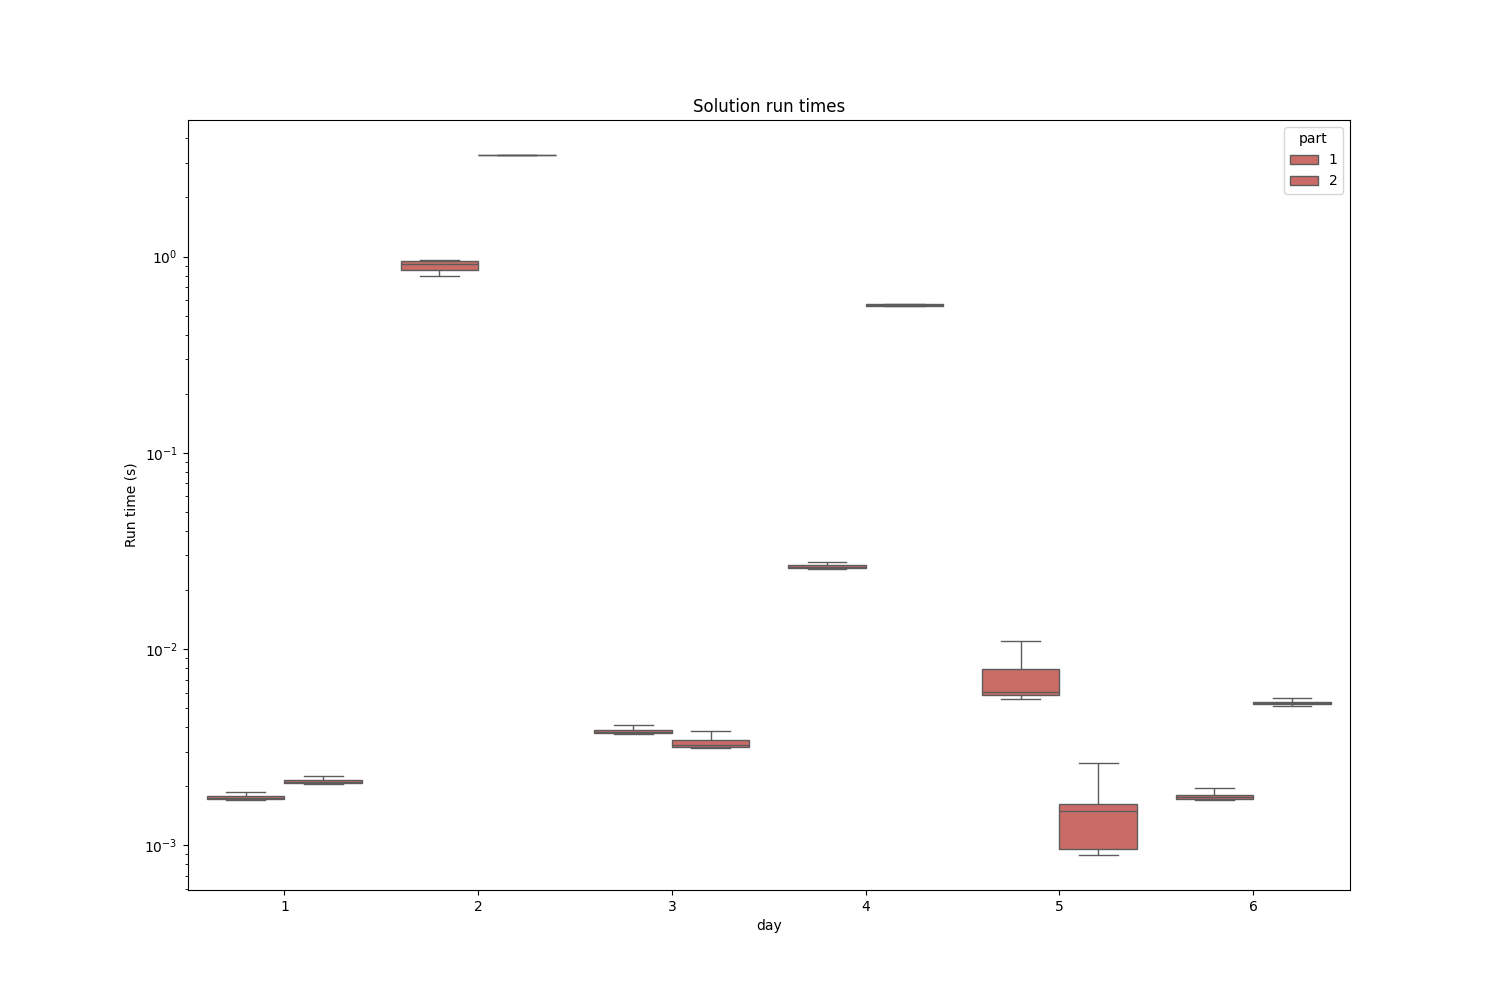
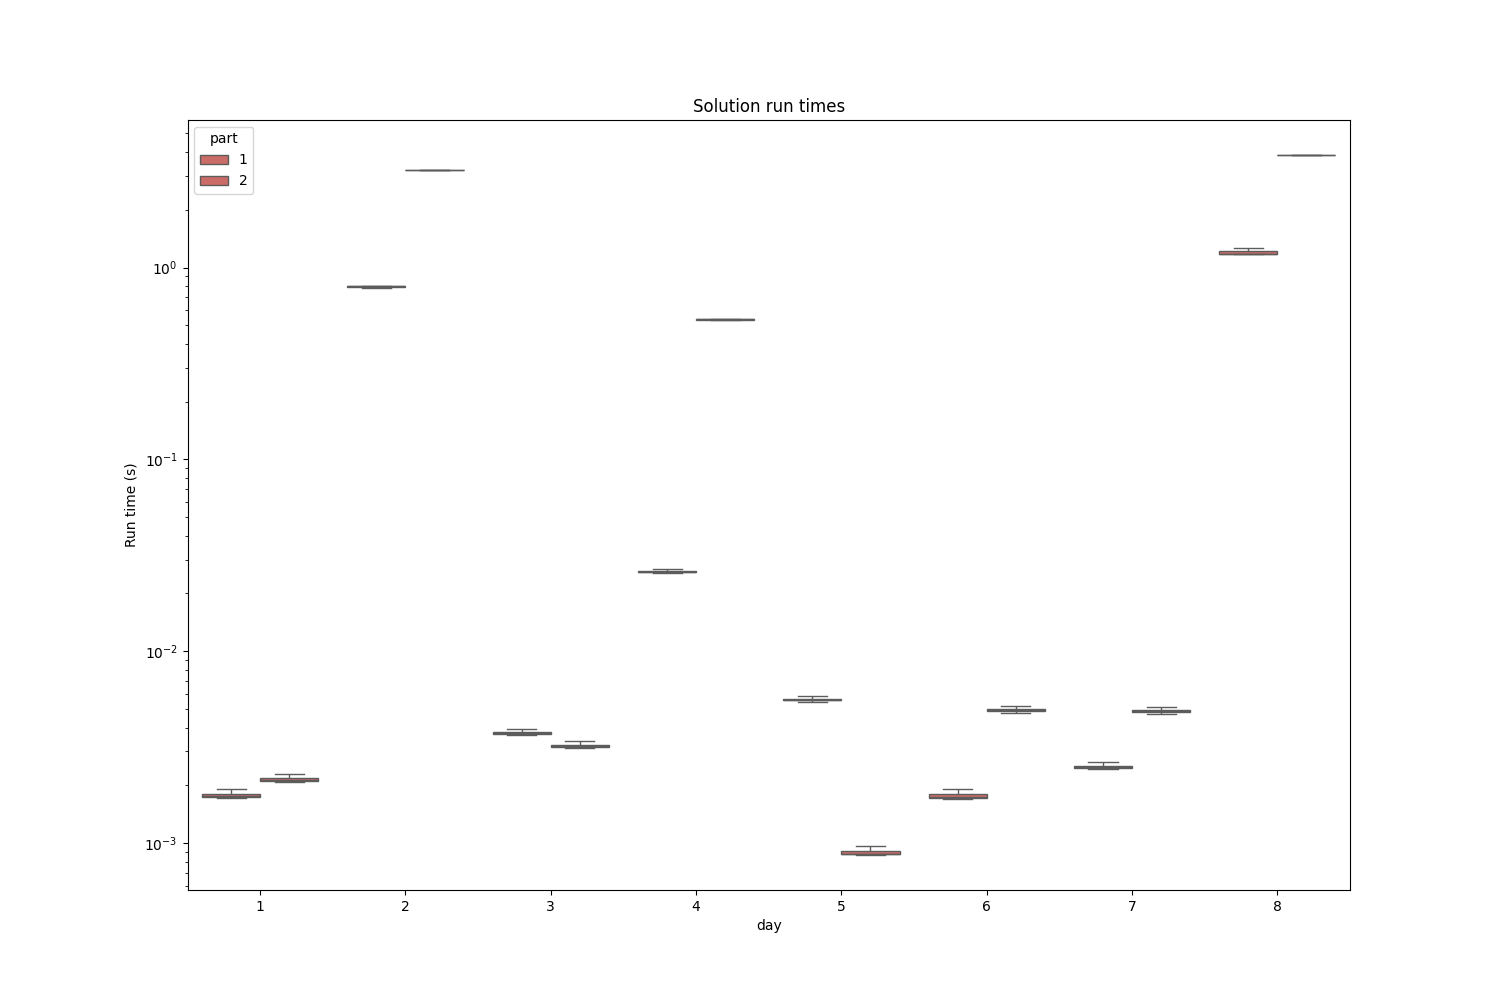
day 8

diff --git a/aoc/day_08.py b/aoc/day_08.py
@@ -1,0 +1,84 @@
+from collections import defaultdict
+import heapq
+from itertools import combinations
+import math
+
+def get_circuit(node, graph, circuit):
+
+    for neighbour in graph[node]:
+        if neighbour not in circuit:
+            circuit.add(neighbour)
+            circuit = get_circuit(neighbour, graph, circuit)
+    return circuit
+
+def part_one(file_path: str, n=1000):
+    """[summary]
+
+    Args:
+        file_path (str): [description]
+
+    Returns:
+        [type]: [description]
+    """
+
+    # read file
+    with open(file_path) as f:
+        lines = f.readlines()
+    
+    boxes = [tuple(int(x) for x in line.split(",")) for line in lines]
+
+    distances = {}
+    for i, b1 in enumerate(boxes[:-1]):
+        for b2 in boxes[i+1:]:
+            dist = sum((p1 - p2)**2 for p1, p2 in zip(b1, b2))
+            distances[(b1,b2)] = dist
+
+    edges = heapq.nsmallest(n, combinations(boxes,2), key=lambda x: sum((p1 - p2)**2 for p1, p2 in zip(x[0], x[1])))
+
+    graph = defaultdict(set)
+    for n1, n2 in edges:
+        graph[n1].add(n2)
+        graph[n2].add(n1)
+
+    circuits = set(tuple(sorted(get_circuit(node, graph, set()))) for node in graph)
+
+    return math.prod(heapq.nlargest(3, map(len, circuits)))
+
+
+def part_two(file_path: str):
+    """[summary]
+
+    Args:
+        file_path (str): [description]
+
+    Returns:
+        [type]: [description]
+    """
+
+    with open(file_path) as f:
+        lines = f.readlines()
+    
+    boxes = [tuple(int(x) for x in line.split(",")) for line in lines]
+
+    distances = {}
+    for i, b1 in enumerate(boxes[:-1]):
+        for b2 in boxes[i+1:]:
+            dist = sum((p1 - p2)**2 for p1, p2 in zip(b1, b2))
+            distances[(b1,b2)] = dist
+
+    ordered_edges = sorted(distances.keys(), key=distances.get)
+
+    graph = defaultdict(set)
+    i = 0
+    while len(get_circuit(boxes[0], graph, set())) < len(boxes):
+        n1, n2 = ordered_edges[i]
+        graph[n1].add(n2)
+        graph[n2].add(n1)
+        i += 1
+
+    return n1[0] * n2[0]
+
+
+if __name__ == "__main__":
+    print(part_one("aoc/inputs/day_08.txt"))
+    print(part_two("aoc/inputs/day_08.txt"))

diff --git a/tests/test_day_08.py b/tests/test_day_08.py
@@ -1,0 +1,13 @@
+from aoc.day_08 import part_one, part_two
+
+def test_part_one():
+
+    test_file_path = "tests/test_inputs/test_day_08.txt"
+
+    assert part_one(test_file_path, n=10) == 40
+
+def test_part_two():
+
+    test_file_path = "tests/test_inputs/test_day_08.txt"
+
+    assert part_two(test_file_path) == 25272
